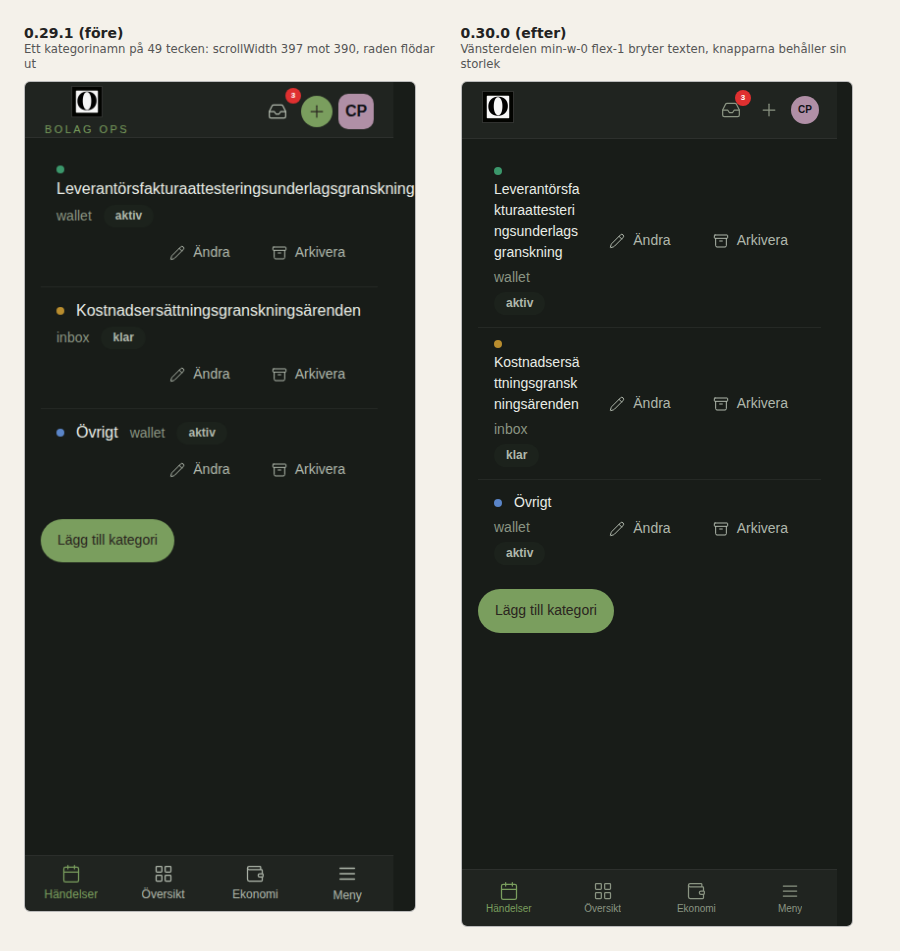
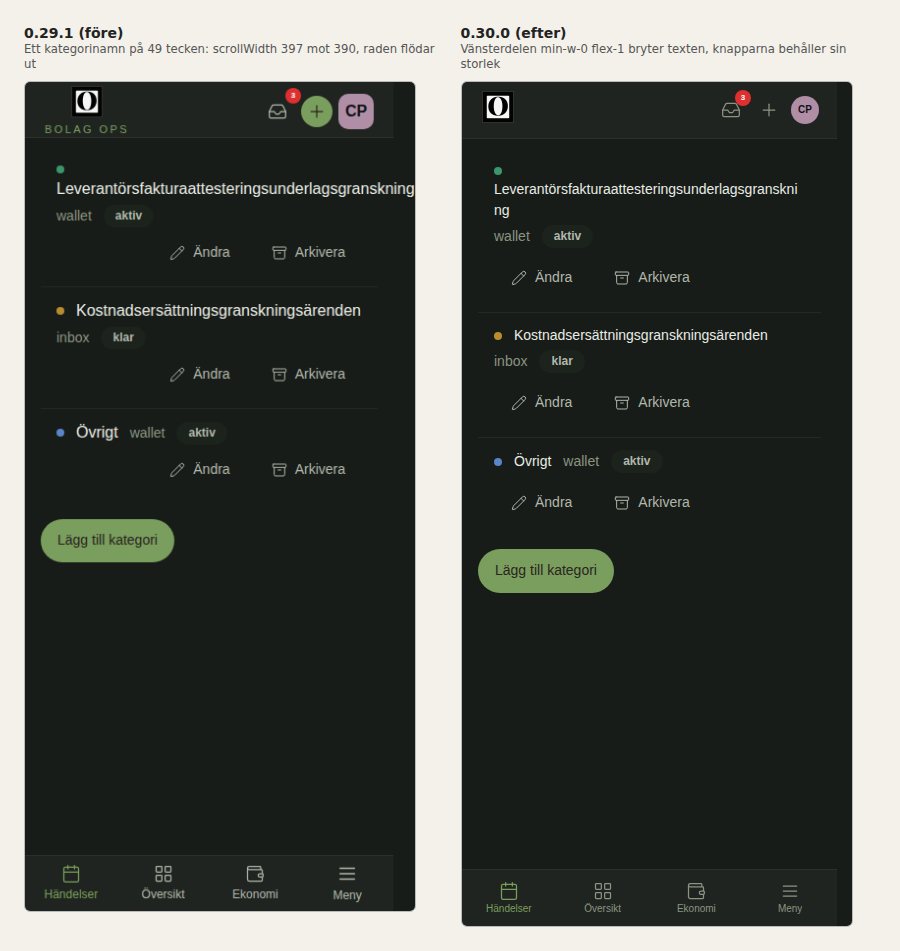
D: inställningsraden staplas under sm, ord bryts inte i smal kolumn (#173)
Claude-Session: https://claude.ai/code/session_01MtEbCzeFTkDPr7xPiiaUpz

diff --git a/src/components/OpsKatalogInstallning.jsx b/src/components/OpsKatalogInstallning.jsx
@@ -237,8 +237,9 @@ export function OpsKatalogInstallning({
           ord är långa) kunde inte krympa under sitt längsta ord: raden blev
           bredare än sitt kort och vyn fick horisontell scroll på en 390 px
           bred telefon (mätt, se `check-skalyta`). */}
-      <div className="flex w-full items-center justify-between gap-3">
-        <div className="flex min-w-0 flex-1 flex-wrap items-center gap-x-3 gap-y-1">
+      <div className="flex w-full flex-wrap items-center gap-x-3 gap-y-2">
+        {/* ⛔ Under `sm` STAPLAS raden: texten på egen full rad, knapparna under, så ett ord aldrig trycks ihop till en smal kolumn (CP: texterna får inte plats i mobil). */}
+        <div className="flex min-w-0 flex-1 basis-full flex-wrap items-center gap-x-3 gap-y-1 sm:basis-auto">
           {/* ⛔ Ordet skickas med: `slagPrick` vägrar en prick utan det, eftersom en färg utan ord inte går att läsa upp och betyder ingenting för den som inte lärt sig koden.
               ⛔ Och ingen prick alls i en katalog utan färger: `slagPrick` kastar på en plats som inte finns, och en grå prick hade sagt att kategorin har en färg som inte laddat. */}
           {kategori.farg ? (
@@ -254,7 +255,7 @@ export function OpsKatalogInstallning({
           // en knapp utan text är snabbare att rita men går inte att skanna i
           // en lista med tio rader, man måste läsa varje glyf. Ordet står kvar,
           // ikonen är en genväg för ögat och inte en ersättning för texten.
-          <span className="flex shrink-0 gap-2">
+          <span className="flex shrink-0 gap-2 sm:ms-auto">
             <OpsButton variant="ghost" onClick={() => oppna(kategori)}>
               <AndraIkon />
               Ändra
